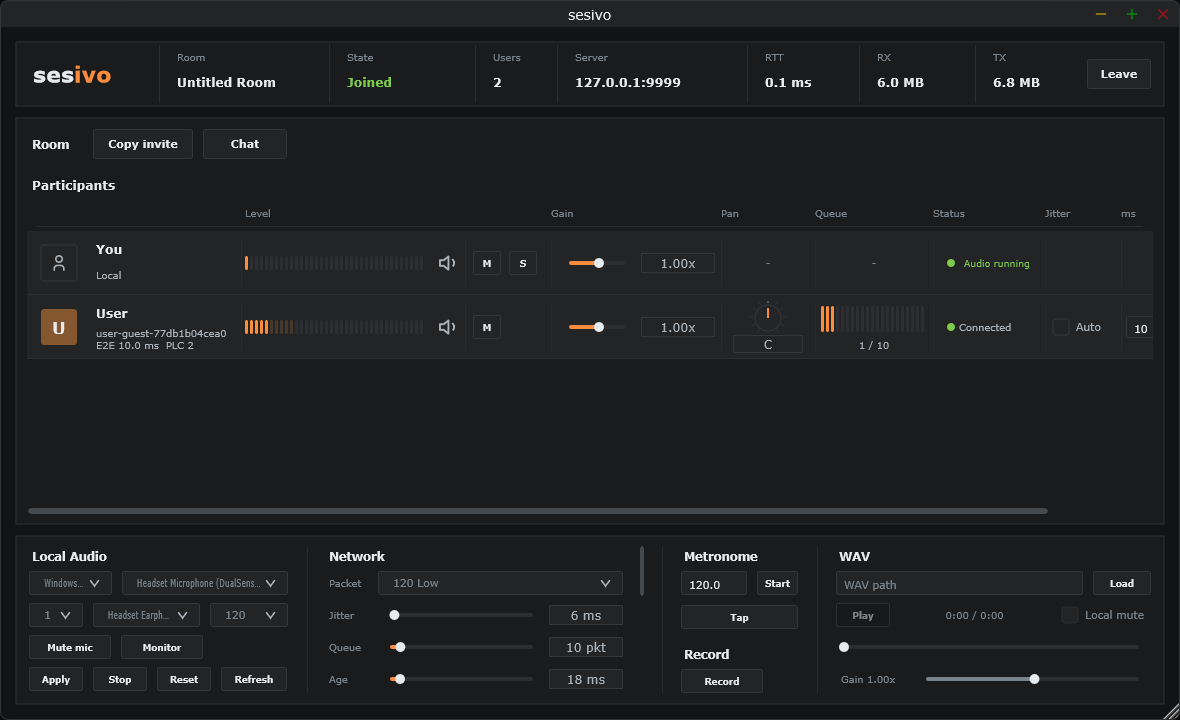
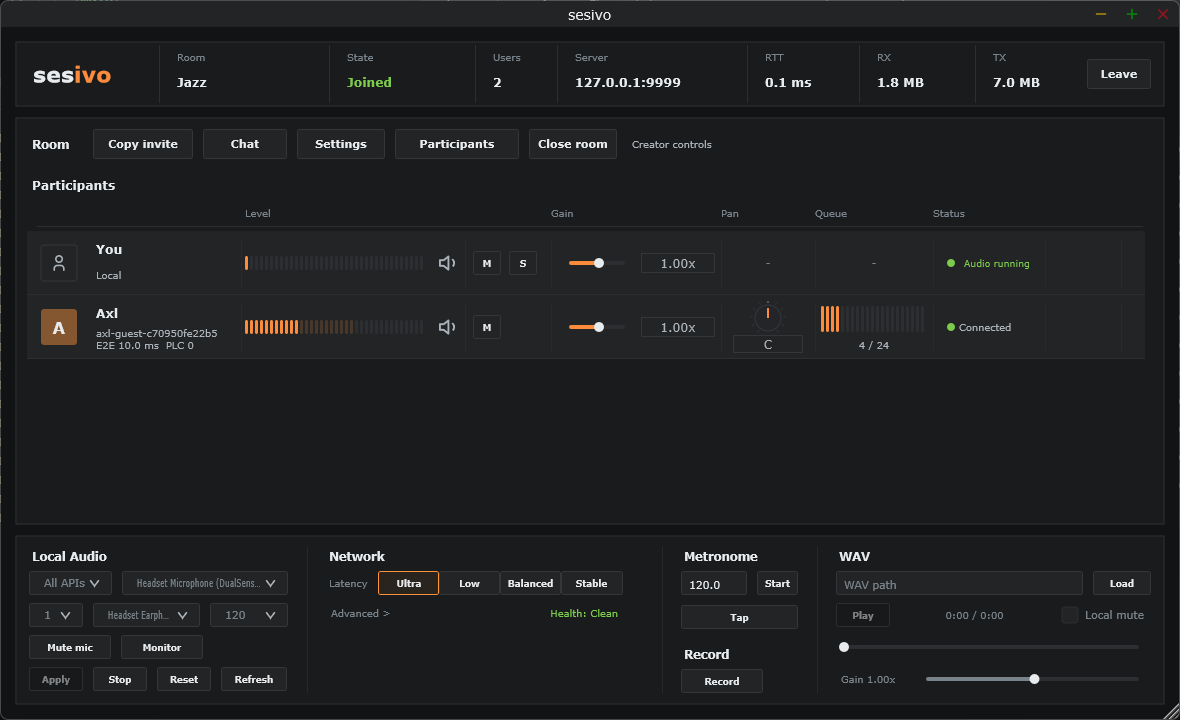
Optimize homepage session image

diff --git a/index.html b/index.html
@@ -57,7 +57,10 @@
       <p>Low-latency audio collaboration for musicians, creators, and live remote audio.</p>
       <p><a href="downloads.html">Download Sesivo</a></p>
       <p><a href="docs.html">Read the docs</a></p>
-      <img class="app-screenshot" src="assets/session.png" alt="Sesivo app room view." width="720" height="439">
+      <picture>
+        <source srcset="assets/session.webp" type="image/webp">
+        <img class="app-screenshot" src="assets/session.png" alt="Sesivo app room view." width="720" height="439" fetchpriority="high" decoding="async">
+      </picture>
     </main>
   </body>
 </html>